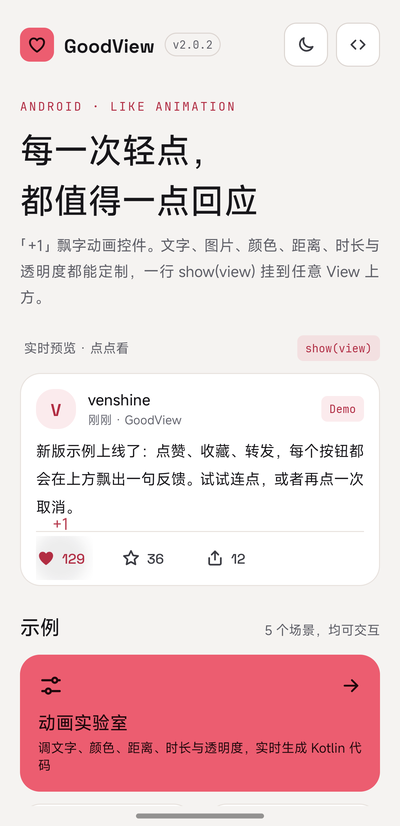
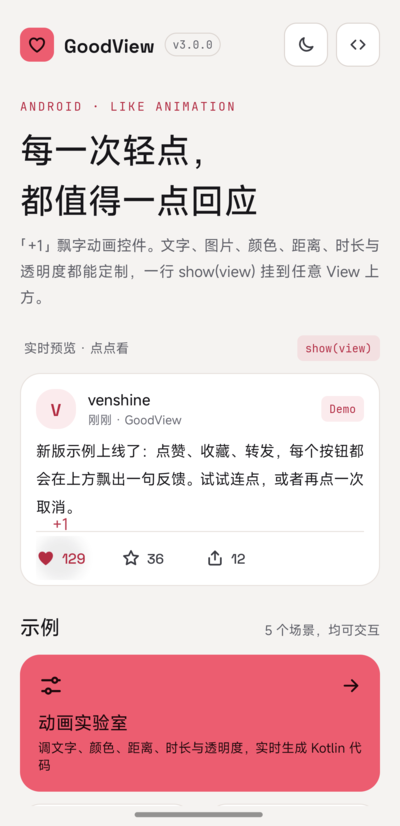
chore: release 3.0.0
- Point the README install snippets at 3.0.0, the Kotlin rewrite
- Re-capture the light and dark home screenshots so the version chip
  reads v3.0.0; other screens show no version and are unchanged
- Add process/release.md with this project's release-seal parameters:
  tag format, version files, release commit contents, GitHub Release
  with the sample APK, and the exceptions to the generic flow

Verified with goodview and sample unit tests and release/debug builds;
screenshots taken on a physical device.

diff --git a/process/release.md b/process/release.md
@@ -1,0 +1,25 @@
+# 封板参数（release-seal）
+
+通用步骤见全局 skill `release-seal`，本文件只写本项目参数。
+
+## 版本号与 tag
+
+- 版本号所在文件：`goodview/build.gradle` 的 `publishing` 段 `version`，`sample/build.gradle` 的 `versionName`。两处保持一致，sample 首页的版本号读取 `versionName`。
+- tag：直接用版本号（如 `3.0.0`），annotated tag，说明用英文写版本号和要点，如 `3.0.0: rewrite the library in Kotlin`。
+- JitPack 按 tag 构建发布：`com.github.venshine:GoodView:<tag>`。
+
+## 封板前的发版提交
+
+- `README.md` 与 `README-CN.md` 的安装片段（Groovy 与 Kotlin DSL 各一处）改成新版本号。
+- README 截图里能看到版本号的（`screenshot/home.png`、`screenshot/home_dark.png`）在真机上重拍：原图裁掉顶部状态栏 130px，再缩放到 400×826。界面有变化时重拍全部截图和 `screenshot/demo.gif`。
+- 验证：`./gradlew :goodview:testDebugUnitTest :goodview:assembleRelease :sample:assembleDebug :sample:testDebugUnitTest`。
+
+## 本项目例外
+
+- 封板后不提前把版本号升到下一版：版本号在下一次发版提交时再改，避免 README 安装片段指向未发布的版本。
+- 没有飞书产品文档和 `ROADMAP.md`，跳过文档同步。
+
+## GitHub Release
+
+- 推送 tag 后创建同名 Release（标题为版本号），说明用英文，写改动要点和安装片段。
+- 附件：`./gradlew :sample:assembleDebug` 产出的 debug 签名 APK，重命名为 `GoodView-sample-<版本号>.apk`。

diff --git a/README.md b/README.md
@@ -35,7 +35,7 @@ dependencyResolutionManagement {
 ```
 2. Add the dependency to your module's `build.gradle`:
 ```groovy
-implementation 'com.github.venshine:GoodView:2.0.2'
+implementation 'com.github.venshine:GoodView:3.0.0'
 ```
 
 ##### Gradle Kotlin DSL:
@@ -50,7 +50,7 @@ dependencyResolutionManagement {
 }
 
 // build.gradle.kts
-implementation("com.github.venshine:GoodView:2.0.2")
+implementation("com.github.venshine:GoodView:3.0.0")
 ```
 
 Demo

diff --git a/README-CN.md b/README-CN.md
@@ -35,7 +35,7 @@ dependencyResolutionManagement {
 ```
 2. 在模块的 `build.gradle` 中添加依赖：
 ```groovy
-implementation 'com.github.venshine:GoodView:2.0.2'
+implementation 'com.github.venshine:GoodView:3.0.0'
 ```
 
 ##### Gradle Kotlin DSL:
@@ -50,7 +50,7 @@ dependencyResolutionManagement {
 }
 
 // build.gradle.kts
-implementation("com.github.venshine:GoodView:2.0.2")
+implementation("com.github.venshine:GoodView:3.0.0")
 ```
 
 Demo
